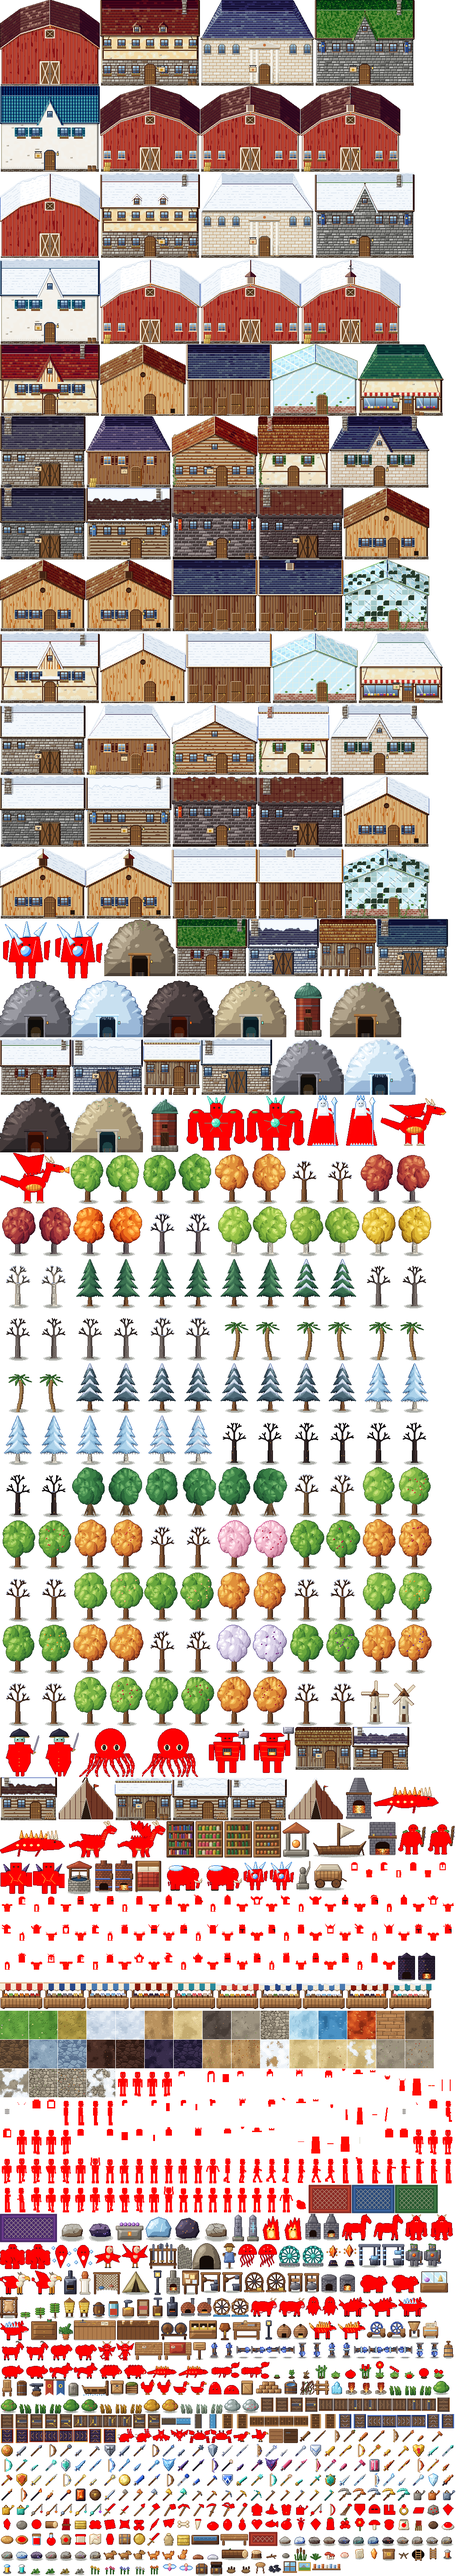
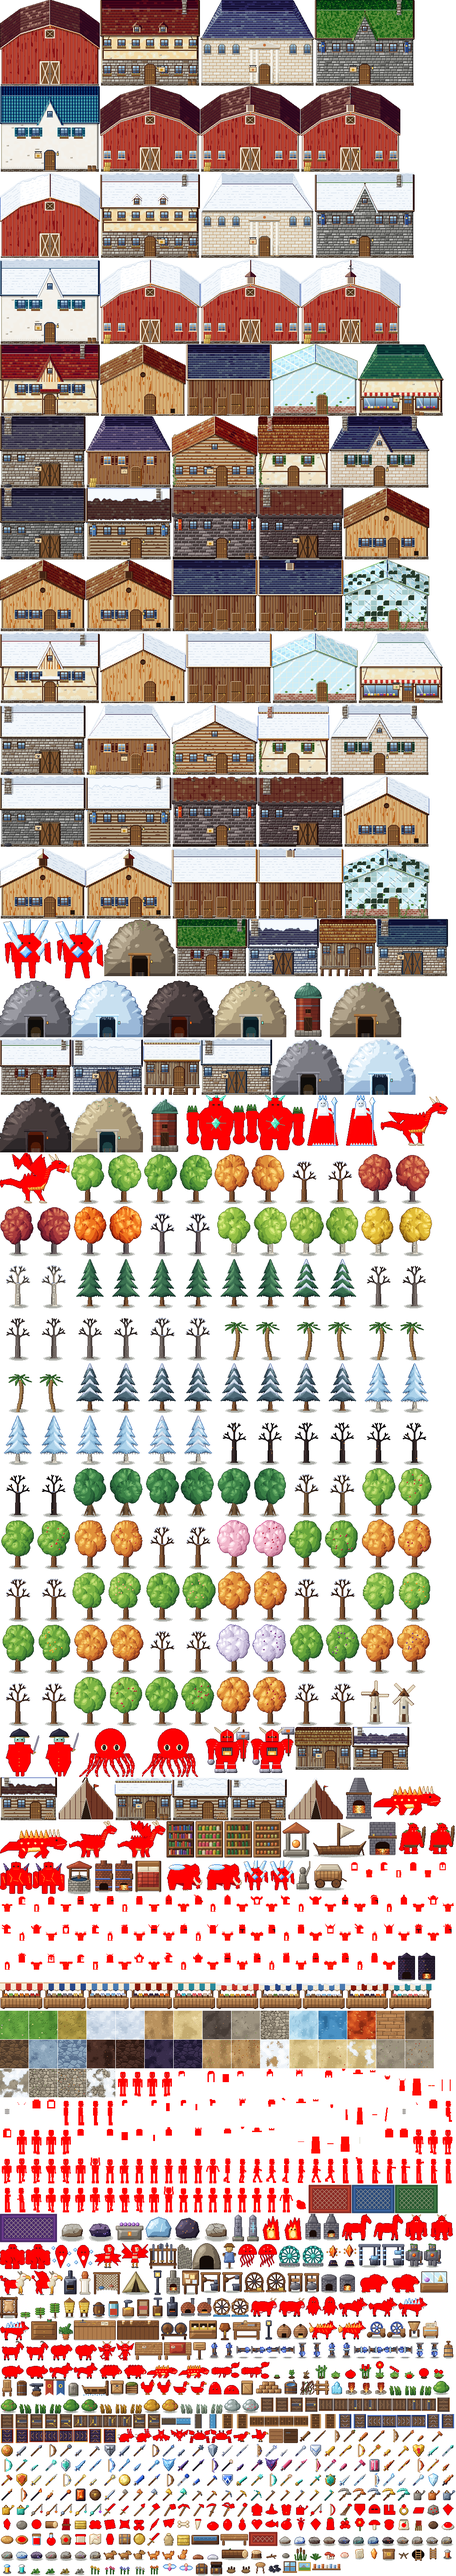
Redrawn regional creatures and bosses: wargs, fire hound, bear, troll, griffin, Stone Tyrant, Forge King, mammoth, shardlings and the Heart of the Glacier, basalt golem, Cinder Drake, harpy, salamanders and the Ash Mother

diff --git a/art/sprites/foes2.py b/art/sprites/foes2.py
@@ -1,0 +1,368 @@
+"""Regional creatures and bosses, redrawn (used by creatures2.py's en_* sprites).
+
+Same sizes, channels and fixed colours as creatures2.py. Replaces the shapes that were
+ellipses and boxes: wargs and the fire hound (one canine body, scaled), the cave bear, the
+troll, the griffin, the Stone Tyrant, the Forge King, the mammoth, shardlings and the Heart
+of the Glacier, the basalt golem, the Cinder Drake and the harpy.
+"""
+import math
+from px import Canvas, rect, ellipse, poly, line, rng
+from sprites.creatures import C, fin, eye, EYE
+from sprites.creatures2 import ICE, FIRE, BONE, STEEL, GLOWT, SKIN, TALON, BEAK
+from sprites.farm_animals import leg, blob
+
+CLAW = '#e8dcc0'
+OBSID = ['#1a1420', '#3a2a4a', '#6a4a8a', '#a88ad8']
+
+
+def Pk(pts, k=1, ox=0, oy=0):
+    return poly([(round(ox + x * k), round(oy + y * k)) for x, y in pts])
+
+
+def canine(W, H, f, k, mane=C(1), tail=C(1), extra=None):
+    """A lean wolf body in a 54x40 design frame, scaled by k (wargs, the fire hound)."""
+    s = Canvas(W, H)
+    sw = 2 if f else -2
+    oy = H - 40 * k
+    L = lambda hip, foot, wt, wb, pal, kn: leg(s, (round(hip[0] * k), round(oy + hip[1] * k)), (round(foot[0] * k), H - 1), wt * k, wb * k, pal, kn)
+    s.shade(Pk([(10, 18), (4, 14), (1, 18), (3, 26), (9, 24)], k, 0, oy), None, 'form', colors=tail)
+    L((14, 26), (13 - sw, 0), 4, 2, C(0)[:1] + C(0)[:3], -2)
+    L((36, 26), (37 + sw, 0), 3.5, 2, C(0)[:1] + C(0)[:3], 1)
+    s.shade(Pk([(9, 18), (16, 15), (30, 16), (40, 14), (44, 20), (41, 28), (33, 30), (20, 26), (12, 27)], k, 0, oy), None, 'form', colors=C(0))
+    s.shade(Pk([(26, 15), (30, 9), (34, 13), (37, 7), (40, 12), (44, 15), (43, 27), (36, 26)], k, 0, oy), None, 'form', colors=mane)
+    L((12, 25), (11 + sw, 0), 5, 2, C(0), -2)
+    L((34, 26), (34 - sw, 0), 4, 2, C(0), 1)
+    s.shade(Pk([(38, 12), (44, 9), (48, 13), (53, 17), (52, 20), (46, 21), (40, 19)], k, 0, oy), None, 'form', colors=C(0))
+    s.fill(Pk([(40, 11), (41, 3), (44, 10)], k, 0, oy) | Pk([(43, 10), (45, 3), (46, 10)], k, 0, oy), C(1)[1])
+    s.set(round(53 * k), round(oy + 17 * k), EYE)
+    s.fill(line(round(47 * k), round(oy + 20 * k), round(51 * k), round(oy + 19 * k)), '#ffffff')
+    eye(s, round(44 * k), round(oy + 13 * k), True)
+    if extra:
+        extra(s, k, oy)
+    return fin(s)
+
+
+def warg(f, ice=False):
+    def ext(s, k, oy):
+        if ice:
+            for x in range(12, 40, 6):
+                s.shade(Pk([(x, 17), (x + 3, 7 - (x // 6) % 2 * 3), (x + 6, 17)], k, 0, oy), None, 'form', colors=ICE)
+        s.fill(line(round(46 * k), round(oy + 21 * k), round(47 * k), round(oy + 23 * k)), '#ffffff')  # fang
+    return canine(66, 48, f, 1.2, extra=ext)
+
+
+def hound(f):
+    flick = 3 if f else 0
+    def ext(s, k, oy):
+        for i, x in enumerate(range(14, 42, 5)):  # a mane of fire down the spine
+            h = 8 + (i * 7 + flick * (i % 2)) % 7
+            s.shade(Pk([(x, 17), (x + 3, 17 - h), (x + 6, 17)], k, 0, oy), None, 'form', colors=FIRE)
+        s.shade(Pk([(8, 18), (0, 6 + flick), (5, 16), (10, 22)], k, 0, oy), None, 'form', colors=FIRE)
+        for x0 in (18, 26, 32):
+            s.fill(line(round(x0 * k), round(oy + 20 * k), round((x0 + 3) * k), round(oy + 25 * k)), FIRE[2])  # glowing ribs
+        s.fill(rect(round(44 * k), round(oy + 13 * k), 2, 2), FIRE[3])
+    return canine(64, 46, f, 1.15, mane=C(0), tail=FIRE, extra=ext)
+
+
+def bear(f):
+    s = Canvas(70, 52)
+    sw = 3 if f else -3
+    leg(s, (24, 34), (23 - sw, 51), 9, 7, C(0)[:1] + C(0)[:3], -1, hoof=None)
+    leg(s, (50, 34), (51 + sw, 51), 8, 7, C(0)[:1] + C(0)[:3], 1, hoof=None)
+    s.shade(blob((34, 30, 23, 13), (20, 30, 11, 12), (44, 24, 14, 13)), None, 'form', colors=C(0))
+    s.shade(Pk([(30, 14), (40, 10), (52, 14), (52, 24), (34, 22)]), None, 'form', colors=C(1))  # shoulder hump
+    for (hx, fx) in ((19, 19 + sw), (46, 46 - sw)):
+        leg(s, (hx, 34), (fx, 51), 10, 8, C(0), 0, hoof=None)
+        s.fill({(fx - 3, 51), (fx - 1, 51), (fx + 1, 51), (fx + 3, 51)}, CLAW)
+    s.shade(Pk([(52, 20), (58, 16), (64, 19), (69, 26), (66, 31), (57, 31), (52, 28)]), None, 'form', colors=C(0))  # head held low
+    s.shade(ellipse(65, 28, 4, 3), None, 'form', colors=C(0)[1:] + [C(0)[3]]); s.fill(rect(67, 26, 2, 2), '#1a1414')  # snout
+    for x in (54, 59):
+        s.shade(ellipse(x, 17, 2.5, 2.5), None, 'sphere', colors=C(1))
+    s.fill(line(60, 31, 65, 31), '#f0e8d0')
+    r = rng(3)
+    for _ in range(18):
+        x, y = r.randrange(14, 56), r.randrange(18, 42)
+        if s.get(x, y)[3]:
+            s.fill(line(x, y, x - 2, y + 2), C(0)[1])  # fur
+    eye(s, 60, 21)
+    return fin(s)
+
+
+def troll(f):
+    s = Canvas(64, 76)
+    sw = 2 if f else 0
+    for x, d in ((22, -1), (38, 1)):  # short bowed legs, big feet
+        s.shade(Pk([(x - 5, 54), (x + 5, 54), (x + 6 + d, 66), (x + 4, 72), (x - 4, 72), (x - 5 + d, 64)]), None, 'form', colors=C(1))
+        s.shade(Pk([(x - 6, 70), (x + 7, 70), (x + 8, 74), (x - 6, 74)]), None, 'form', colors=C(0))
+    s.shade(Pk([(14, 28), (26, 20), (44, 20), (52, 30), (52, 48), (44, 58), (18, 58), (10, 46)]), None, 'form', colors=C(0))  # hunched torso
+    s.shade(ellipse(30, 47, 13, 10), None, 'form', colors=C(1))  # pot belly
+    s.fill(Pk([(16, 54), (46, 54), (44, 60), (18, 60)]), '#6a4a2a'); s.fill(line(18, 57, 44, 57), '#4a3220')  # hide loincloth
+    s.shade(Pk([(12, 28), (19, 30), (14 + sw, 60), (7 + sw, 60)]), None, 'form', colors=C(0))  # long arm, knuckles low
+    s.shade(ellipse(10 + sw, 63, 5, 4), None, 'sphere', colors=C(0))
+    s.shade(Pk([(54, 60 - sw), (57, 18 - sw), (62, 12 - sw), (64, 20 - sw), (59, 60 - sw)]), None, 'form', colors=['#3a2414', '#5a3a22', '#7a5230', '#9a6a40'])  # club
+    for y in (18, 26, 34):
+        s.fill(Pk([(62, y - sw), (64, y - 1 - sw), (63, y + 1 - sw)]), STEEL[2])
+    s.shade(Pk([(44, 28), (51, 26), (58, 52 - sw), (52, 55 - sw)]), None, 'form', colors=C(0))
+    s.shade(ellipse(55, 55 - sw, 4, 4), None, 'sphere', colors=C(0))
+    s.shade(Pk([(28, 10), (36, 6), (44, 10), (45, 22), (38, 27), (30, 25), (27, 18)]), None, 'form', colors=C(0))  # head thrust forward
+    s.shade(Pk([(42, 13), (48, 16), (46, 20), (41, 19)]), None, 'form', colors=C(0)[1:] + [C(0)[3]])  # big nose
+    s.fill(line(29, 12, 43, 12), C(1)[0])  # heavy brow
+    s.fill(Pk([(33, 24), (34, 19), (35, 24)]) | Pk([(40, 24), (41, 20), (42, 24)]), '#f0e8d0')  # tusks
+    for x in (33, 39):
+        s.fill(rect(x, 14, 2, 2), EYE)
+    s.fill(Pk([(29, 10), (24, 6), (29, 13)]), C(0)[1])  # ear
+    for x, y in ((18, 26), (22, 23), (46, 22), (49, 25), (32, 7)):
+        s.fill(ellipse(x, y, 3, 1.5), '#5a8a3a'); s.set(x - 1, y - 1, '#8ab858')  # moss
+    return fin(s)
+
+
+def griffin(f):
+    s = Canvas(70, 56)
+    sw = 2 if f else -2
+    s.fill(line(12, 28, 3, 18) | line(12, 29, 4, 19), C(0)[1]); s.shade(ellipse(3, 16, 3, 3), None, 'sphere', colors=C(1))  # lion tail
+    leg(s, (16, 36), (15 - sw, 55), 6, 3, C(0)[:1] + C(0)[:3], -2, hoof=None)  # lion hindquarters
+    leg(s, (44, 36), (45 + sw, 55), 3, 2, BEAK[:1] + BEAK[:3], 1, hoof=None)
+    s.shade(blob((30, 32, 16, 9), (18, 32, 8, 9)), None, 'form', colors=C(0))
+    s.shade(ellipse(44, 30, 9, 10), None, 'form', colors=BONE)  # feathered chest
+    for y in range(24, 40, 3):
+        s.fill(line(39, y, 48, y + 1), BONE[1])
+    leg(s, (20, 36), (20 + sw, 55), 7, 4, C(0), -2, hoof=None); s.fill({(18 + sw, 55), (21 + sw, 55), (24 + sw, 55)}, TALON[0])
+    leg(s, (46, 36), (46 - sw, 55), 3.5, 2, BEAK, 1, hoof=None); s.fill({(43 - sw, 55), (46 - sw, 55), (49 - sw, 55)}, TALON[0])  # eagle talons
+    wing = [(22, 28), (6, 2), (16, 6), (24, 3), (32, 8), (42, 26)] if f else [(22, 28), (2, 22), (12, 18), (14, 30), (26, 24), (42, 28)]
+    s.shade(Pk(wing), None, 'form', colors=C(1))
+    for p in wing[1:5]:
+        s.fill(line(24, 26, p[0], p[1]), C(1)[0])
+    s.shade(Pk([(44, 22), (46, 12), (52, 8), (58, 10), (60, 18), (54, 24)]), None, 'form', colors=BONE)  # eagle head
+    s.fill(Pk([(58, 12), (66, 14), (69, 19), (67, 23), (64, 19), (58, 19)]), BEAK[2]); s.fill({(67, 21), (67, 22), (66, 23)}, BEAK[0])  # hooked beak
+    s.fill(Pk([(46, 12), (40, 4), (48, 10), (47, 2), (51, 9)]), BONE[0])  # crest
+    s.fill(line(51, 14, 57, 14), C(1)[1]); eye(s, 54, 13)
+    return fin(s)
+
+
+def tyrant(f):
+    """The Stone Tyrant: a mountain that stood up, pines on its shoulders and a crystal heart."""
+    s = Canvas(132, 124)
+    sw = 3 if f else 0
+    for x, d in ((46, -1), (84, 1)):  # stacked boulder legs
+        s.shade(Pk([(x - 12, 90), (x + 12, 90), (x + 14, 106), (x + 10, 122), (x - 10, 122), (x - 14, 106)]), None, 'form', colors=C(1))
+        s.fill(line(x - 13, 106, x + 13, 105), C(1)[0])
+    body = [(28, 44), (40, 30), (56, 26), (78, 26), (94, 30), (106, 44), (104, 70), (96, 92), (66, 98), (36, 92), (28, 70)]
+    s.shade(Pk(body), None, 'form', colors=C(0))
+    for a, b in (((40, 50), (60, 46)), ((72, 46), (96, 52)), ((34, 74), (54, 80)), ((80, 80), (100, 72)), ((66, 30), (64, 44))):
+        s.fill(line(*a, *b), C(0)[0])  # fault lines
+    for x, d in ((14, -1), (118, 1)):  # arms of boulders, huge fists
+        s.shade(ellipse(x, 48 + sw * d, 15, 13), None, 'form', colors=C(0))
+        s.shade(Pk([(x - 10, 56 + sw * d), (x + 10, 56 + sw * d), (x + 9, 88 + sw * d), (x - 9, 88 + sw * d)]), None, 'form', colors=C(1))
+        s.shade(ellipse(x, 98 + sw * d, 13, 11), None, 'form', colors=C(0))
+        for px_ in (x - 12, x - 6, x + 2):  # pines growing on the shoulders
+            s.fill(Pk([(px_, 38 + sw * d), (px_ + 4, 24 + sw * d), (px_ + 8, 38 + sw * d)]), '#2e5a26')
+            s.fill(Pk([(px_ + 1, 32 + sw * d), (px_ + 4, 22 + sw * d), (px_ + 7, 32 + sw * d)]), '#4a8a3a')
+    s.shade(Pk([(52, 10), (66, 4), (80, 10), (82, 28), (66, 34), (50, 28)]), None, 'form', colors=C(0))  # craggy head
+    for pts in ([(54, 14), (44, 0), (60, 10)], [(78, 14), (88, 0), (72, 10)], [(64, 6), (67, -6), (70, 6)]):
+        s.shade(Pk(pts), None, 'form', colors=GLOWT)  # crystal crown
+    s.fill(line(54, 18, 78, 18), C(0)[0])
+    for x in (58, 70):
+        s.fill(rect(x, 20, 5, 3), EYE)
+    s.fill(line(60, 28, 72, 28), C(1)[0])
+    s.shade(Pk([(66, 50), (76, 62), (66, 76), (56, 62)]), None, 'form', colors=GLOWT)  # crystal heart
+    for a in range(0, 360, 60):
+        r = math.radians(a + (15 if f else 0))
+        s.fill(line(66, 62, round(66 + math.cos(r) * 22), round(62 + math.sin(r) * 18)), GLOWT[1])
+    s.set(63, 58, '#ffffff')
+    return fin(s)
+
+
+def forgeking(f):
+    """The Forge King: an iron giant in heavy plate, a furnace in his chest and a hammer the size of a door."""
+    s = Canvas(100, 104)
+    for x, d in ((34, -1), (60, 1)):
+        s.shade(Pk([(x - 8, 74), (x + 8, 74), (x + 9, 96), (x - 9, 96)]), None, 'form', colors=C(1))
+        s.shade(Pk([(x - 11, 94), (x + 11, 94), (x + 12, 102), (x - 11, 102)]), None, 'form', colors=STEEL)  # sabatons
+        s.fill(line(x - 8, 84, x + 8, 84), STEEL[3])  # knee plate
+    s.shade(Pk([(22, 34), (78, 34), (76, 60), (70, 78), (30, 78), (24, 60)]), None, 'form', colors=C(0))  # breastplate
+    s.fill(rect(38, 46, 24, 18), '#1a1414')  # the furnace door
+    for x in range(39, 61, 4):
+        s.fill(rect(x, 47, 2, 16), STEEL[1])
+    s.fill(rect(41, 54, 18, 9), FIRE[2]); s.fill(rect(45, 57, 10, 5), FIRE[3])
+    for y in (66, 72):
+        s.fill(line(30, y, 70, y), C(0)[0])  # fauld lames
+    for x, d in ((16, -1), (84, 1)):  # stepped pauldrons
+        for k in range(3):
+            s.shade(ellipse(x, 34 + k * 5, 13 - k * 2, 7), None, 'form', colors=C(0))
+            s.fill(line(x - 11 + k * 2, 36 + k * 5, x + 11 - k * 2, 36 + k * 5), STEEL[3])
+    s.shade(Pk([(8, 44), (20, 44), (19, 74), (9, 74)]), None, 'form', colors=C(1))  # left arm
+    s.shade(ellipse(14, 78, 7, 6), None, 'sphere', colors=STEEL)
+    up = 12 if f else 0
+    s.shade(Pk([(80, 44), (92, 44), (91, 70 - up), (81, 70 - up)]), None, 'form', colors=C(1))
+    s.fill(line(86, 76 - up, 86, 6 - up) | line(87, 76 - up, 87, 6 - up), '#5a3a22')  # hammer haft
+    s.shade(Pk([(72, 0 + (0 if f else 12)), (100, 0 + (0 if f else 12)), (100, 16 + (0 if f else 12)), (72, 16 + (0 if f else 12))]), None, 'form', colors=STEEL)
+    s.fill(rect(73, 2 + (0 if f else 12), 26, 2), STEEL[3]); s.fill(rect(82, 6 + (0 if f else 12), 8, 6), FIRE[1])  # glowing rune
+    s.shade(Pk([(36, 14), (50, 6), (64, 14), (64, 32), (36, 32)]), None, 'form', colors=C(1))  # great helm
+    s.fill(Pk([(36, 16), (24, 6), (22, 0), (30, 6), (38, 12)]) | Pk([(64, 16), (76, 6), (78, 0), (70, 6), (62, 12)]), BONE[1])  # horns
+    s.fill(rect(40, 21, 20, 3), '#1a1414'); s.fill(rect(44, 21, 3, 2) | rect(53, 21, 3, 2), FIRE[2])  # glowing eye slit
+    s.fill(line(50, 8, 50, 31), STEEL[3])
+    return fin(s)
+
+
+def mammoth(f):
+    s = Canvas(88, 68)
+    sw = 2 if f else -2
+    for (hx, fx) in ((24, 24 + sw), (58, 58 - sw)):
+        leg(s, (hx, 44), (fx, 67), 10, 9, C(0)[:1] + C(0)[:3], 0, hoof=None)
+    s.shade(Pk([(10, 40), (16, 22), (34, 12), (54, 10), (70, 16), (76, 34), (72, 50), (16, 52)]), None, 'form', colors=C(0))  # high shoulders, sloping back
+    for (hx, fx) in ((18, 18 - sw), (52, 52 + sw)):
+        leg(s, (hx, 44), (fx, 67), 11, 10, C(0), 0, hoof=None)
+        s.fill({(fx - 4, 67), (fx, 67), (fx + 4, 67)}, '#e8dcc0')  # toenails
+    for x in range(12, 74, 3):  # long shaggy fur hanging below the belly
+        s.fill(line(x, 44, x + 1, 52 + (x * 7) % 5), C(1)[1] if x % 2 else C(1)[2])
+    s.shade(ellipse(32, 16, 18, 6), None, 'form', colors=ICE)  # snow on its back
+    s.shade(Pk([(62, 14), (72, 8), (80, 14), (82, 30), (76, 40), (66, 36)]), None, 'form', colors=C(0))  # domed head
+    s.shade(Pk([(76, 34), (84, 44), (82, 58), (78, 64), (75, 62), (77, 54), (76, 44), (70, 38)]), None, 'form', colors=C(0))  # trunk
+    for y in range(40, 62, 3):
+        s.fill(line(76, y, 82, y), C(0)[1])
+    s.shade(Pk([(70, 36), (74, 46), (82, 52), (88, 44), (86, 54), (76, 56), (68, 44)]), None, 'form', colors=BONE)  # curved tusk
+    s.shade(ellipse(64, 24, 5, 8), None, 'form', colors=C(1))  # ear
+    eye(s, 73, 22)
+    return fin(s)
+
+
+def shardling(f, k=1.0):
+    """A walking cluster of ice crystals; k=2 is the Heart of the Glacier."""
+    W, H = round(58 * k), round(68 * k)
+    s = Canvas(W, H)
+    P = lambda pts: Pk(pts, k)
+    sw = 3 if f else 0
+    for x, d in ((20, -1), (36, 1)):  # crystal legs
+        s.shade(P([(x - 4, 46), (x + 4, 46), (x + 3 + d * sw, 66), (x - 2 + d * sw, 66)]), None, 'form', colors=C(1))
+    s.shade(P([(12, 28), (20, 18), (38, 16), (46, 26), (44, 48), (14, 48)]), None, 'form', colors=C(0))
+    prisms = [((14, 26), (4, 4), (12, 3), (20, 20)), ((44, 24), (54, 2), (48, 2), (38, 18)), ((26, 18), (28, -1), (34, 0), (34, 18)),
+              ((20, 34), (8, 16), (14, 14), (26, 28)), ((40, 36), (52, 22), (54, 28), (44, 42))]
+    for a, b, c, d2 in prisms:
+        s.shade(P([a, b, c, d2]), None, 'form', colors=ICE)
+        (x0, y0), (x1, y1) = a, b
+        s.fill(line(round(x0 * k), round(y0 * k), round((x0 + x1) / 2 * k), round((y0 + y1) / 2 * k)), '#ffffff')
+    for x, d in ((6, -1), (50, 1)):  # shard arms
+        s.shade(P([(x, 28 + sw * d), (x + 6, 26 + sw * d), (x + 5 + d * 2, 50 + sw * d), (x + 1, 46 + sw * d)]), None, 'form', colors=C(0))
+    core = ['#1a3a8a', '#3a8aff', '#9ad8ff', '#ffffff']
+    s.shade(P([(29, 30), (36, 37), (29, 44), (22, 37)]), None, 'form', colors=core)
+    for x in (24, 32):
+        s.fill(rect(round(x * k), round(26 * k), max(2, round(2 * k)), max(2, round(2 * k))), EYE)
+    return fin(s)
+
+
+def basalt(f):
+    """A golem of black basalt columns with lava running in the cracks."""
+    s = Canvas(72, 76)
+    up = 3 if f else 0
+    def column(x0, y0, w, h, pal):
+        s.shade(Pk([(x0, y0 + 2), (x0 + w / 2, y0), (x0 + w, y0 + 2), (x0 + w, y0 + h), (x0, y0 + h)]), None, 'form', colors=pal)
+        s.fill(line(round(x0 + w / 2), y0 + 2, round(x0 + w / 2), y0 + h - 1), pal[1])
+    for x in (22, 40):
+        column(x, 52, 11, 22, C(1))
+    for k, x in enumerate(range(14, 58, 8)):  # the torso: a cluster of columns of different heights
+        column(x, 22 - (k % 3) * 4, 8, 34 + (k % 3) * 4, C(0))
+    for pts in ([(14, 24), (8, 6), (20, 20)], [(58, 24), (66, 6), (52, 20)], [(32, 16), (36, 4), (40, 16)]):
+        s.shade(Pk(pts), None, 'form', colors=OBSID)  # obsidian spikes
+    for x, d in ((2, -1), (60, 1)):
+        column(x, 28 + up * d, 11, 30, C(0))
+        s.shade(ellipse(x + 5, 60 + up * d, 7, 5), None, 'form', colors=C(1))
+    for pts in ([(20, 30), (26, 38), (23, 48)], [(46, 28), (42, 40), (50, 52)], [(30, 44), (40, 46)], [(6, 36), (10, 50)], [(64, 34), (66, 50)]):
+        for (x0, y0), (x1, y1) in zip(pts, pts[1:]):
+            s.fill(line(x0, y0, x1 + (1 if f else 0), y1), FIRE[2]); s.fill(line(x0 + 1, y0, x1 + 1, y1), FIRE[1])
+    column(26, 4, 20, 20, C(0))  # head
+    for x in (29, 39):
+        s.fill(rect(x, 12, 4, 3), EYE)
+    s.fill(line(30, 19, 42, 19), FIRE[1])
+    return fin(s)
+
+
+def drake(f):
+    """The Cinder Drake: a two-legged wyvern, wings for arms, a furnace in its throat."""
+    s = Canvas(156, 116)
+    up = f
+    def wing(ox, oy, pal):
+        tip = (ox - 46, oy - 40) if up else (ox - 56, oy - 6)
+        f1 = (ox - 16, oy - 46) if up else (ox - 30, oy + 4)
+        f2 = (ox + 18, oy - 40) if up else (ox + 4, oy + 8)
+        m = Pk([(ox, oy), tip, (ox - 40, oy - 12 if up else oy + 14), f1, (ox - 10, oy - 10 if up else oy + 18), f2, (ox + 28, oy + 2)])
+        s.shade(m, None, 'form', colors=pal)
+        for p in (tip, f1, f2):
+            s.fill(line(ox + 2, oy, p[0], p[1]) | line(ox + 3, oy, p[0] + 1, p[1]), C(0)[0])
+        s.fill({(tip[0], tip[1]), (tip[0] - 1, tip[1] - 1)}, BONE[2])  # wing claw
+    wing(80, 50, C(1)[:1] + C(1)[:3])
+    s.shade(Pk([(48, 66), (24, 58), (6, 62), (0, 70), (10, 70), (28, 72), (46, 80)]), None, 'form', colors=C(0))  # tail
+    s.fill(Pk([(0, 70), (2, 60), (8, 66)]) | Pk([(0, 70), (4, 78), (8, 72)]), C(1)[1])
+    for x, d in ((60, -1), (86, 1)):  # digitigrade legs
+        st = (4 if f else -4) * d
+        s.shade(Pk([(x - 9, 74), (x + 9, 74), (x + 6, 92), (x + 10 + st, 108), (x + 4 + st, 110), (x - 2, 94), (x - 9, 86)]), None, 'form', colors=C(0))
+        s.fill(Pk([(x - 2 + st, 110), (x + 4 + st, 106), (x + 16 + st, 112), (x + 2 + st, 112)]), BONE[1])
+    s.shade(blob((74, 68, 28, 16), (58, 70, 14, 12), (92, 62, 14, 14)), None, 'form', colors=C(0))
+    s.shade(Pk([(62, 78), (92, 76), (104, 66), (98, 82), (66, 84)]), None, 'form', colors=['#a8501a', '#e0782a', '#f8a83a', '#ffd870'])  # belly plates
+    for x in range(66, 98, 6):
+        s.fill(line(x, 77, x + 1, 84), '#a8501a')
+    for x in range(52, 104, 8):
+        s.fill(Pk([(x, 56 - (x - 52) // 4), (x + 4, 47 - (x - 52) // 4), (x + 8, 56 - (x - 52) // 4)]), C(1)[1])  # spines
+    wing(74, 44, C(1))
+    s.shade(Pk([(94, 60), (102, 40), (112, 28), (124, 24), (126, 34), (114, 40), (106, 64)]), None, 'form', colors=C(0))  # neck
+    for y in range(36, 60, 5):
+        s.fill(line(104 - (y - 36) // 4, y, 110 - (y - 36) // 4, y - 1), FIRE[1])  # the throat glows
+    s.shade(Pk([(116, 22), (128, 16), (140, 20), (150, 28), (148, 34), (136, 36), (120, 34)]), None, 'form', colors=C(0))  # head
+    s.shade(Pk([(130, 34), (148, 36), (144, 42 + up * 3), (128, 40)]), None, 'form', colors=C(0)[:3] + [C(0)[2]])  # jaw
+    s.fill(line(132, 35, 146, 36), '#ffffff')
+    for pts in ([(120, 20), (110, 4), (124, 16)], [(128, 18), (124, 2), (132, 16)]):
+        s.shade(Pk(pts), None, 'form', colors=BONE)
+    s.fill(rect(132, 22, 4, 3), EYE); s.set(133, 22, '#ffffff')
+    if f:
+        s.shade(Pk([(148, 34), (156, 28), (156, 44), (148, 40)]), None, 'form', colors=FIRE)  # a lick of flame
+    return fin(s)
+
+
+def harpy(f):
+    s = Canvas(60, 60)
+    FLESH = ['#c88a6a', '#e0a888', '#f0c4a4', '#fadcc0']
+    def wing(pts):
+        s.shade(Pk(pts), None, 'form', colors=C(0))
+        for p in pts[1:-1]:
+            s.fill(line(pts[0][0], pts[0][1], p[0], p[1]), C(0)[0])
+    wing([(24, 24), (2, 2), (8, 12), (0, 20), (8, 26), (2, 34), (26, 34)] if f else [(24, 24), (0, 28), (8, 34), (2, 42), (12, 42), (8, 50), (26, 36)])
+    for x in (26, 34):  # bird legs with talons
+        s.fill(line(x, 42, x - 1, 50) | line(x + 1, 42, x, 50), BEAK[1]); s.fill(line(x - 1, 50, x + 1, 54), BEAK[1])
+        s.fill({(x - 2, 55), (x, 55), (x + 2, 55), (x - 3, 54)}, TALON[0])
+    s.shade(Pk([(24, 36), (36, 36), (38, 44), (22, 44)]), None, 'form', colors=C(0))  # feathered hips
+    s.shade(Pk([(25, 24), (35, 24), (36, 36), (24, 36)]), None, 'form', colors=FLESH)  # torso
+    s.shade(Pk([(25, 26), (35, 26), (35, 30), (25, 30)]), None, 'form', colors=C(1))  # feather wrap
+    s.shade(Pk([(24, 6), (36, 4), (44, 12), (42, 30), (36, 22), (26, 24), (22, 16)]), None, 'form', colors=C(1))  # wild hair
+    s.shade(Pk([(30, 10), (37, 10), (39, 16), (36, 21), (31, 20)]), None, 'form', colors=FLESH)  # face
+    s.fill(rect(35, 13, 2, 2), EYE); s.fill(line(36, 18, 38, 18), '#8a3a3a')
+    wing([(36, 24), (58, 4), (52, 14), (60, 20), (52, 26), (58, 32), (36, 34)] if f else [(36, 24), (60, 28), (52, 34), (58, 42), (48, 42), (52, 50), (34, 36)])
+    return fin(s)
+
+
+def salamander(f, k=1.0):
+    """A fire lizard with sprawling legs and a ridge of flame; k=2.2 is the Ash Mother."""
+    W, H = round(70 * k), round(40 * k)
+    s = Canvas(W, H)
+    P = lambda pts: Pk(pts, k)
+    st = 3 if f else -3
+    for x, d in ((22, 1), (44, -1)):  # far legs, sprawled
+        s.shade(P([(x, 26), (x + 4, 26), (x + 2 + st * d, 33), (x - 4 + st * d, 38), (x - 6 + st * d, 36), (x - 2, 30)]), None, 'form', colors=C(1))
+    s.shade(P([(22, 22), (10, 22), (2, 28 + st // 2), (0, 32 + st // 2), (8, 30), (22, 30)]), None, 'form', colors=C(0))  # tapering tail
+    s.shade(P([(18, 20), (30, 16), (44, 17), (50, 22), (46, 30), (24, 31), (16, 27)]), None, 'form', colors=C(0))  # long low body
+    s.shade(P([(22, 28), (44, 27), (42, 31), (26, 32)]), None, 'form', colors=FIRE[1:] + [FIRE[3]])  # glowing belly
+    for x, d in ((26, -1), (42, 1)):  # near legs with claws
+        s.shade(P([(x - 2, 26), (x + 3, 26), (x + 5 + st * d, 32), (x + 1 + st * d, 38), (x - 2 + st * d, 38), (x, 31)]), None, 'form', colors=C(0))
+        fx = round((x + st * d) * k)
+        s.fill({(fx - round(2 * k), round(38 * k) - 1), (fx, round(38 * k) - 1), (fx + round(2 * k), round(38 * k) - 1)}, CLAW)
+    s.shade(P([(46, 18), (54, 15), (62, 17), (68, 21), (67, 25), (58, 27), (48, 26)]), None, 'form', colors=C(0))  # flat head
+    s.shade(P([(56, 25), (68, 24), (64, 29 + f), (55, 28)]), None, 'form', colors=C(0)[:3] + [C(0)[2]])  # jaw
+    s.fill(line(round(58 * k), round(25 * k), round(66 * k), round(24 * k)), '#ffe0a0')
+    for x in range(20, 48, 5):  # flame ridge
+        h = 6 + (x // 5) % 2 * 3 + (2 if f and x % 10 == 0 else 0)
+        s.shade(P([(x, 18), (x + 2, 18 - h), (x + 5, 18)]), None, 'form', colors=FIRE)
+    for x in range(22, 46, 7):
+        s.fill(ellipse(x * k, 23 * k, 1.2 * k, 1 * k), FIRE[3])  # ember spots
+    s.fill(rect(round(57 * k), round(19 * k), max(2, round(2 * k)), max(2, round(2 * k))), EYE)
+    if k > 1.5:  # the Ash Mother wears a crown of horns
+        for x in (50, 54, 58):
+            s.shade(P([(x, 17), (x + 1, 8), (x + 3, 17)]), None, 'form', colors=BONE)
+    return fin(s)

diff --git a/art/sprites/creatures2.py b/art/sprites/creatures2.py
@@ -434,6 +434,8 @@ def kraken(f):
     return fin(s)
 
 
+from sprites.foes2 import warg, hound, bear, troll, griffin, tyrant, forgeking, mammoth, shardling, basalt, drake, harpy, salamander  # noqa: E402  (redrawn)
+
 SPRITES = {}
 for name, fn in (('warg', warg), ('icewarg', lambda f: warg(f, True)), ('bear', bear), ('troll', troll), ('griffin', griffin), ('tyrant', tyrant),
                  ('forgeking', forgeking), ('mammoth', mammoth), ('wisp', wisp), ('shardling', shardling), ('glacierheart', lambda f: shardling(f, 2.0)),
